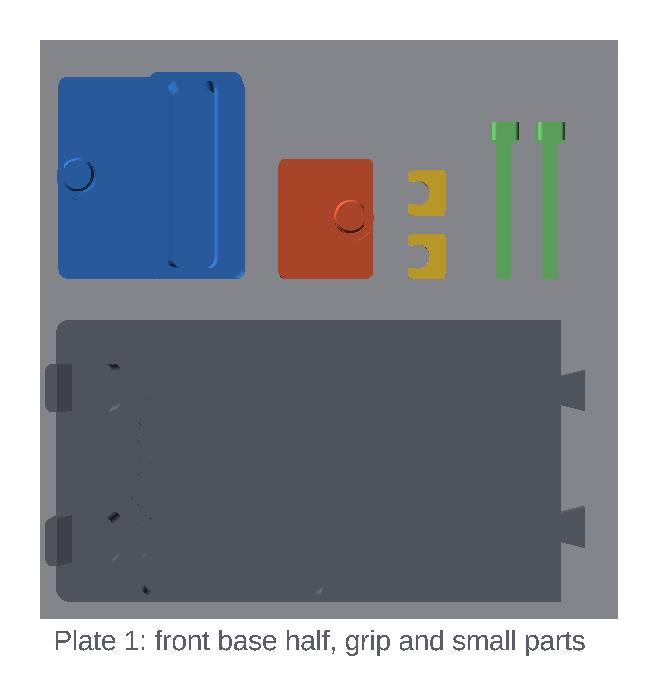
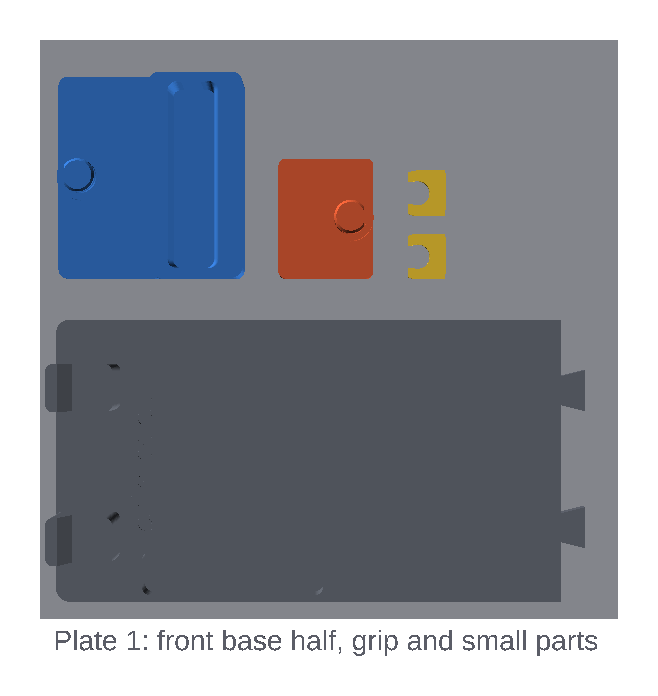
feat: lock the palm rest with one full-width index key
A single bar across the base replaces the two half-width keys. It engages the rest's plate over 76 mm instead of 37 mm per key, halving the key stresses, loads the plate symmetrically, and needs one push from either side. The key moves to plate 2, where its 130 mm length fits.

Changed region(s): [[0.7295, 0.1509, 0.8815, 0.4224], [0.1216, 0.9052, 0.9119, 0.9353]]

diff --git a/export-bambu-project.py b/export-bambu-project.py
@@ -72,10 +72,9 @@ HEIGHT_RANGES = {
 PLATES = [
     ("Front base and small parts", [
         ("base_front", BASE), ("grip", SOLID), ("anchor", SOLID), ("clips", SOLID),
-        ("keys", SOLID),
     ]),
-    ("Rear base, palm rest and stoppers", [
-        ("stoppers", {}), ("base_rear", BASE), ("rest", REST),
+    ("Rear base, palm rest, stoppers and key", [
+        ("stoppers", {}), ("base_rear", BASE), ("rest", REST), ("key", SOLID),
     ]),
 ]
 ILLEGAL_NAME_CHARS = '<>:/\\|?*"'

diff --git a/docs/src/requirements.md b/docs/src/requirements.md
@@ -64,11 +64,11 @@ them replaces testing printed parts.
 - The rest has seven positively locked positions, for hand openings of 25 to
   85 mm.
 - The rest slides in a dovetail channel sunk into the rear base half, which
-  carries the whole heel plate at every position. Two printed index keys,
-  pushed in under the deck from the sides of the base, lock it. Adjustment
-  needs no tools.
-- Either index key alone is screened for the entire design force, and both
-  travel extremes are checked after every geometry change.
+  carries the whole heel plate at every position. One printed index key,
+  pushed in under the deck across the full width of the base, locks it.
+  Adjustment needs no tools.
+- The index key is screened for the entire design force, and both travel
+  extremes are checked after every geometry change.
 
 ## Phone stand
 
@@ -81,7 +81,7 @@ them replaces testing printed parts.
 
 ## Clearances
 
-- The base, anchor block, grip, clips, rest, keys, phone and case are
+- The base, anchor block, grip, clips, rest, key, phone and case are
   collision-free except at explicitly modelled contact surfaces.
 
 ## Structural screening
@@ -101,9 +101,9 @@ target: the 481 N rating times the 2.0 design factor.
 | Lug neck pulled by the clip, across the layers | 4.4 MPa | 12 MPa |
 | Finger lip bending over the full 25 mm edge | 18.0 MPa | 30 MPa, bending |
 | Grip side and back walls in tension | 1.2 MPa | 12 MPa |
-| Either index key alone, in shear at the channel floor | 4.3 MPa | 12 MPa |
-| Key bearing in the rest's groove / the floor groove | 10.4 / 7.4 MPa | 12 MPa, bearing |
-| Rib between neighbouring floor grooves, in shear | 7.0 MPa | 12 MPa |
+| Index key, in shear at the channel floor | 2.1 MPa | 12 MPa |
+| Key bearing in the rest's groove / the floor groove | 5.1 / 3.6 MPa | 12 MPa, bearing |
+| Rib between neighbouring floor grooves, in shear | 3.4 MPa | 12 MPa |
 | Palm bolster root, across the layers | 1.1 MPa | 12 MPa |
 | Channel lips holding the rest down | 0.8 MPa | 6 MPa |
 

diff --git a/docs/src/build/assembly.md b/docs/src/build/assembly.md
@@ -47,13 +47,14 @@ up.
 ![Sliding the palm rest onto the rail](../images/rest_on.png)
 
 Slide the palm rest into the channel from the rear end, bolster toward the
-grip. Push one key into the side of the base from each side, through the
-groove under the bolster, until its head meets the base.
+grip. Push the key, tip first, into the side of the base, through the groove
+under the bolster, until its head meets the base. It fits from either side,
+with its head pointing away from the grip.
 
 The seven key holes along each side, counted from the grip, set the opening
 between the finger lip and the palm face: 25 to 85 mm in 10 mm steps. To
-change it, pull both keys out by their heads, slide the rest until its groove
-lines up with the new holes, and push them in again.
+change it, pull the key out by its head, slide the rest until its groove
+lines up with the new hole, and push the key in again.
 
 ## 6. Stoppers and phone
 

diff --git a/README.md b/README.md
@@ -15,7 +15,7 @@ entirely in plastic with no hardware to buy.
   the 20 and 25 mm edges.
 - **Phone slot:** phones up to about 13 mm thick in their case, portrait or
   landscape, leaned back 15°.
-- **Size:** 349 × 122 mm base (138 mm wide with the keys fitted), 60 mm tall
+- **Size:** 349 × 122 mm base (130 mm wide with the key fitted), 60 mm tall
   at the phone stand.
 - **Printing:** no supports and no hardware; the base splits into two halves
   for a 256 mm bed; about 640 g of PETG.
@@ -53,7 +53,7 @@ CHECK_JOBS=4 OPENSCAD_RENDER_FN=24 bash check-collisions.sh
 ## Safety
 
 Never load the platform above its 49 kg rating, and pull only with both clips
-and both keys fitted. Printed parts can fail: inspect them before each session
+and the key fitted. Printed parts can fail: inspect them before each session
 and stop using any part that cracks or deforms.
 
 ## License

diff --git a/docs/src/build/printing.md b/docs/src/build/printing.md
@@ -13,9 +13,9 @@ Take all the parts from the same release, or they may not fit together.
 
 ## Plates
 
-![Plate 1: front base half, grip, anchor block, clips and keys](../images/plate1.png)
+![Plate 1: front base half, grip, anchor block and clips](../images/plate1.png)
 
-![Plate 2: rear base half, palm rest and stoppers](../images/plate2.png)
+![Plate 2: rear base half, palm rest, stoppers and key](../images/plate2.png)
 
 The parts are exported already oriented for printing, so don't rotate them.
 If you lay out the plates yourself, keep the parts at least 15 mm apart.
@@ -35,7 +35,7 @@ Per-object overrides:
 
 | Object | Override |
 |---|---|
-| `grip`, `anchor`, `clips`, `keys` | 100% infill |
+| `grip`, `anchor`, `clips`, `key` | 100% infill |
 | `rest` | 50% infill |
 | `base_front`, `base_rear` | 4 top and 4 bottom layers |
 

diff --git a/docs/src/build/index.md b/docs/src/build/index.md
@@ -9,7 +9,7 @@ or any earlier release.
 
 > [!WARNING]
 > Never load the platform above its 49 kg rating, and pull only with both
-> clips and both keys fitted. Printed parts can fail: inspect them before each
+> clips and the key fitted. Printed parts can fail: inspect them before each
 > session and stop using any part that cracks or deforms.
 
 ## Parts
@@ -20,5 +20,5 @@ The illustrations use the same colours throughout:
 - **Anchor block** (red) and **finger grip** (blue): their lugs go into the
   two eyes of the load cell.
 - **Eye clips** (yellow): hold the load cell down on the lugs.
-- **Palm rest** (orange) and **index keys** (green): set the hand opening.
+- **Palm rest** (orange) and **index key** (green): set the hand opening.
 - **Pocket stoppers** (teal): make the 25 mm edge shallower.
